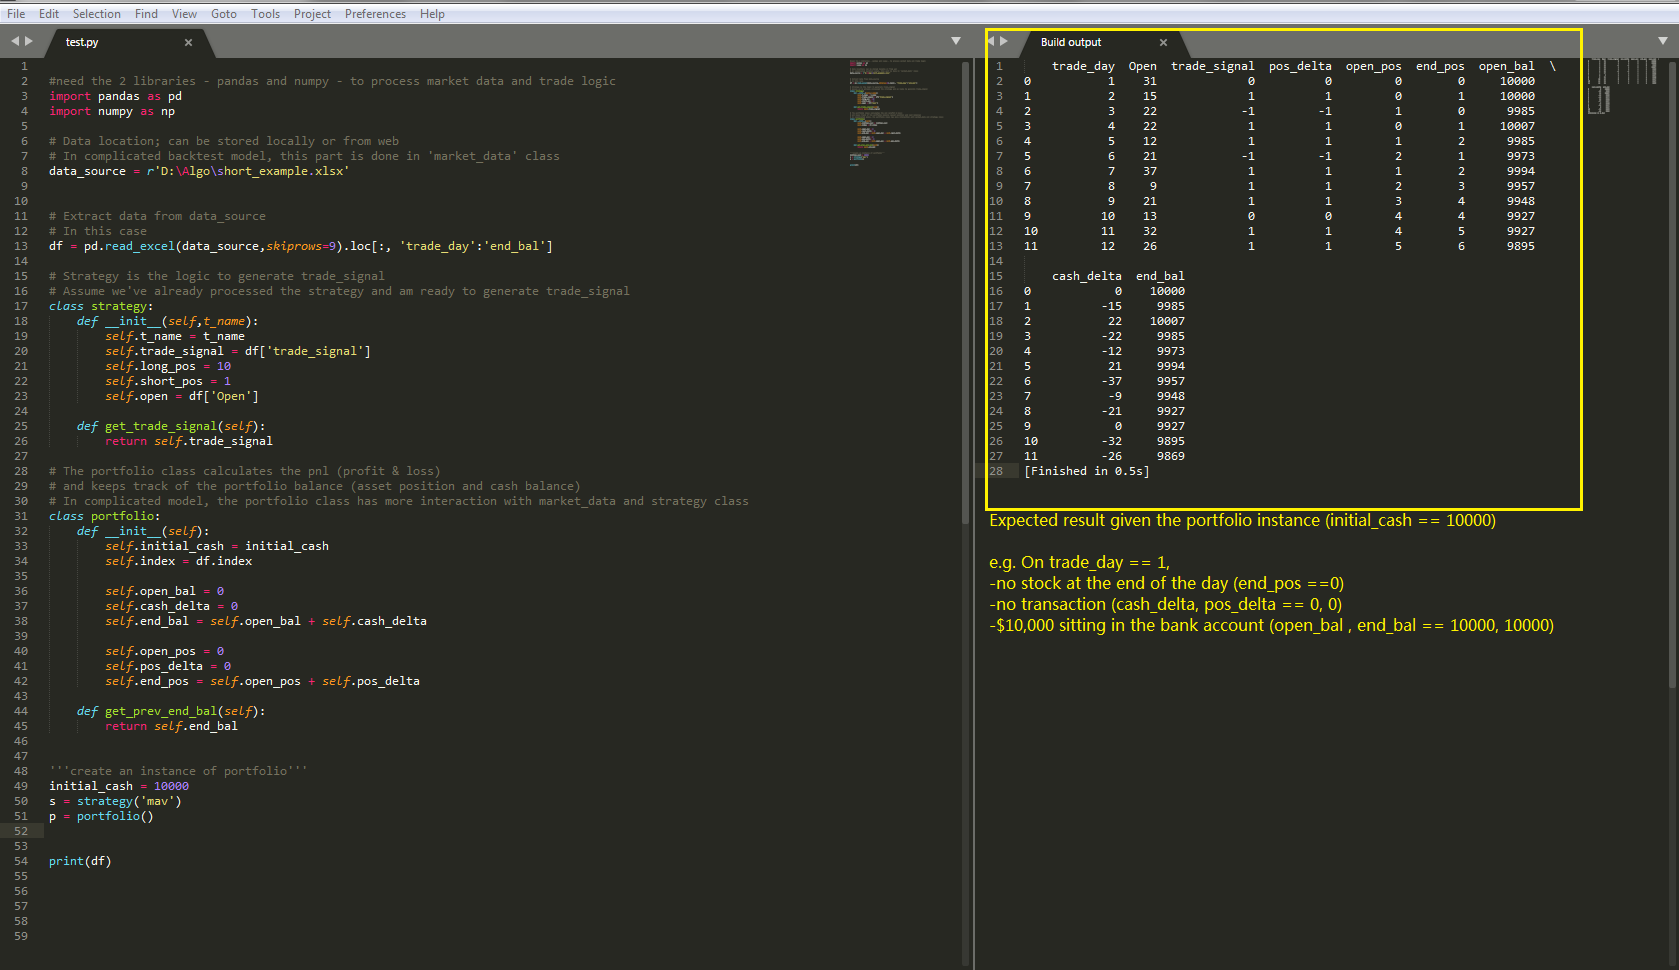
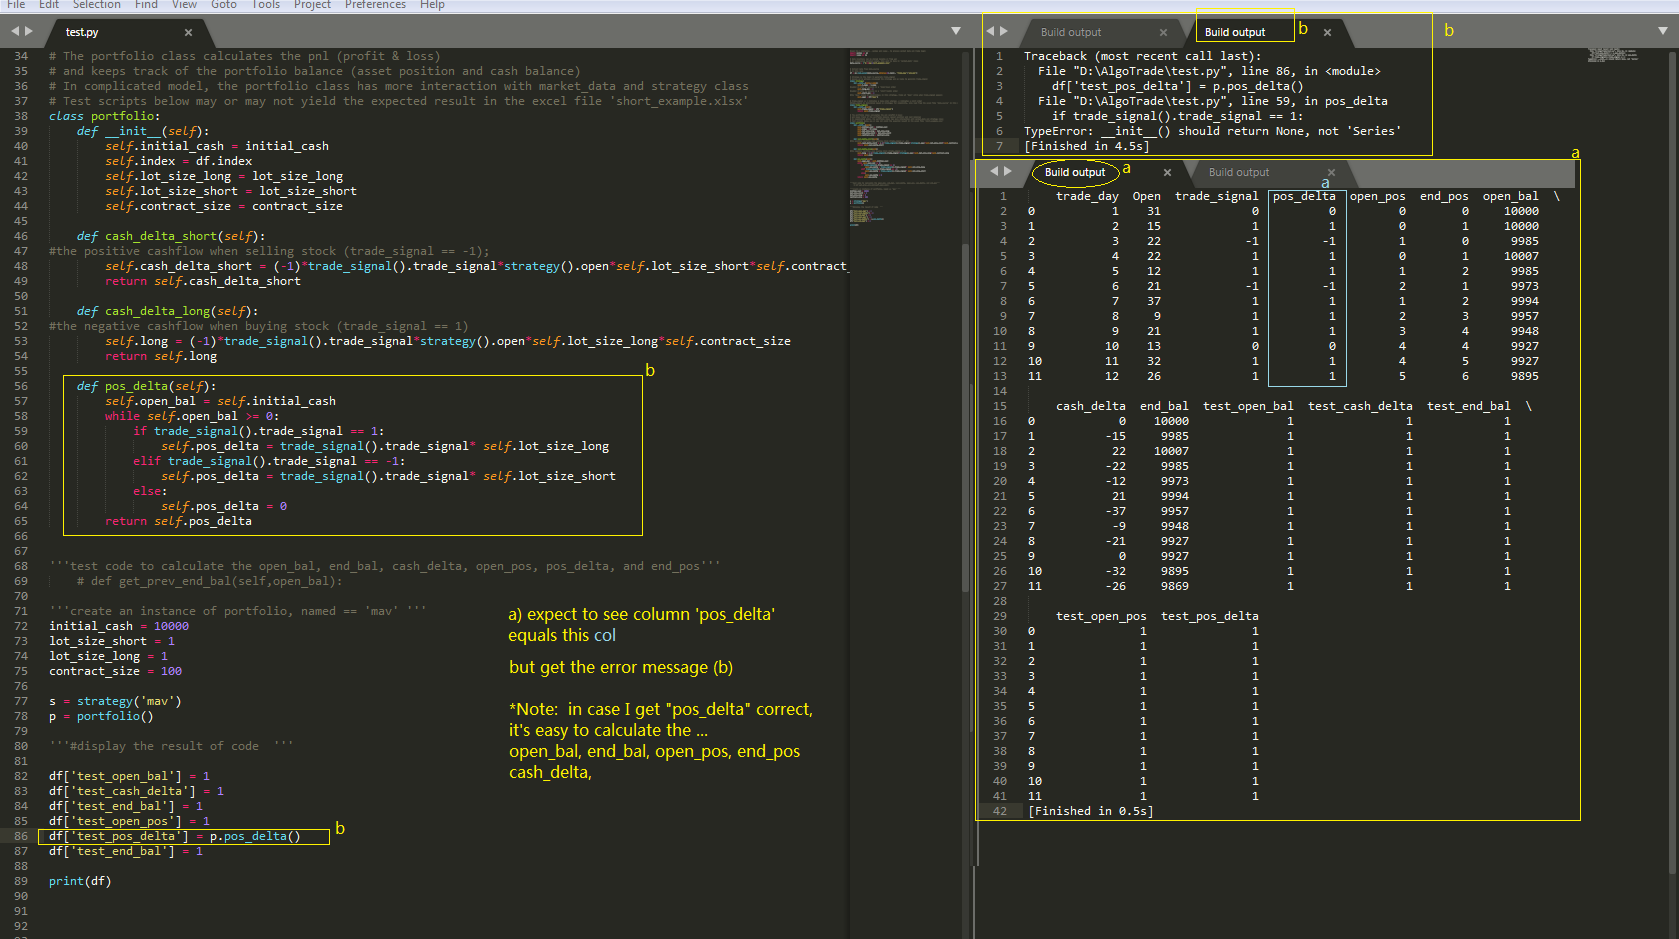
Updated the test py to include pos_delta
Edit the Python file 'test.py' to include the pos_delta (stock holding position change) for current trade_day

Note:  Calculate the 'pos_delta' (buy stock when open_bal >= cash_delta_long (opening cash balance more than or equal to amt to pay for stock;   only sell stock when open_pos >= pos_delta (opening stock position is more than or equal to the number of lots to sell stocks)

Once 'pos_delta ' is done, it's straight forward calculating 
- open_bal  # equals previous day's end_bal
- open_pos  # equals previous day's end_pos
- cash_delta_long  # opening price ( [Open]) * lot_size_long * (-1)* trade_signal * contract_size  
- cash_delta_short # opening price ( [Open]) * lot_size_short * (-1)* trade_signal * contract_size 
- end_bal = open_bal + cash_delta_long + cash_delta_short
- end_pos = open_pos + pos_delta

diff --git a/test.py b/test.py
@@ -53,13 +53,22 @@ class portfolio:
 		self.long = (-1)*trade_signal().trade_signal*strategy().open*self.lot_size_long*self.contract_size
 		return self.long
 
-
+	def pos_delta(self):
+		self.open_bal = self.initial_cash
+		while self.open_bal >= 0:
+			if trade_signal().trade_signal == 1:
+				self.pos_delta = trade_signal().trade_signal* self.lot_size_long
+			elif trade_signal().trade_signal == -1:
+				self.pos_delta = trade_signal().trade_signal* self.lot_size_short
+			else:
+				self.pos_delta = 0
+		return self.pos_delta
 
 
 '''test code to calculate the open_bal, end_bal, cash_delta, open_pos, pos_delta, and end_pos'''
 	# def get_prev_end_bal(self,open_bal):
 	
-'''create an instance of portfolio'''
+'''create an instance of portfolio, named == 'mav' '''
 initial_cash = 10000
 lot_size_short = 1
 lot_size_long = 1
@@ -74,7 +83,7 @@ df['test_open_bal'] = 1
 df['test_cash_delta'] = 1
 df['test_end_bal'] = 1
 df['test_open_pos'] = 1
-df['test_pos_delta'] = 1
+df['test_pos_delta'] = p.pos_delta()
 df['test_end_bal'] = 1
 
 print(df)
